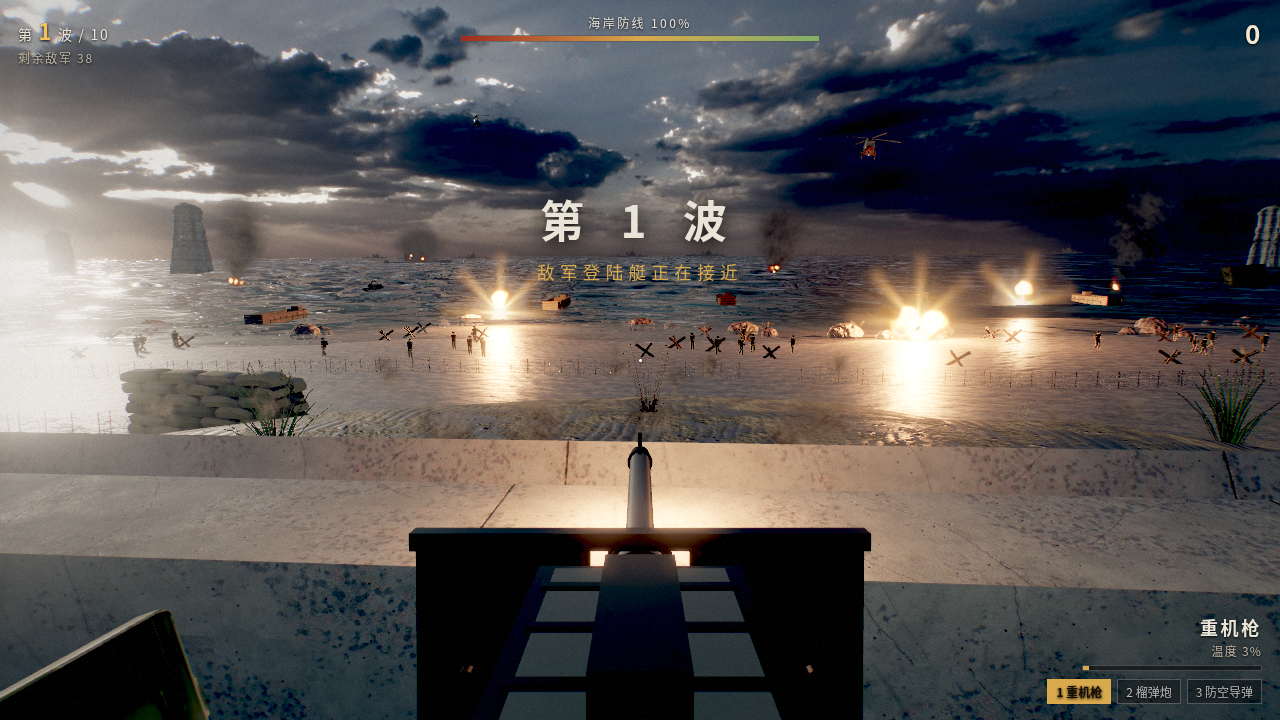
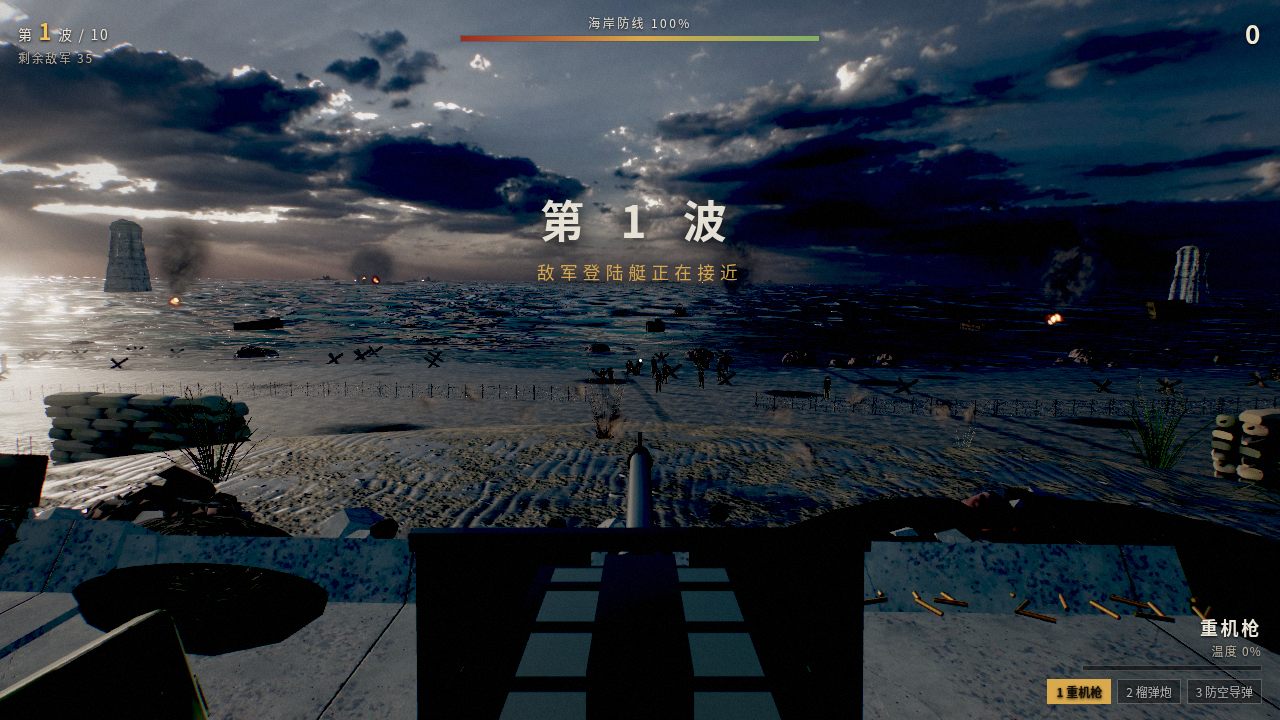
v1.0 pass: parapet, sand, ocean, stances, return fire

diff --git a/index.html b/index.html
@@ -190,6 +190,6 @@ body.touch #wlist{display:none}
   <button class="btn pri" id="bnext">下一波</button>
   <button class="btn" id="bmenu">返回主菜单</button>
 </div></div>
-<script src="game.js?v=mwdw19sl"></script>
+<script src="game.js?v=mwdw5jt6"></script>
 </body>
 </html>

diff --git a/ASSET_WISHLIST.md b/ASSET_WISHLIST.md
@@ -1,0 +1,16 @@
+# Upgrade assets: login required (Sketchfab, CC-BY / CC-BY-SA)
+
+Sketchfab requires a signed-in account (or API token) to download any model, so these were **not** fetched.
+Download as glTF/GLB into `/workspace/assets_src/ext/<key>.glb`; credit lines go into CREDITS.md.
+
+| key | what | Sketchfab UID | licence | faces |
+|---|---|---|---|---|
+| mg_m2 | Browning M2 .50 | ccf212e16b6748419cea6d7b14b30b48 (or 70a737b00d7643978a1884fa026e56c4) | CC-BY | 44k / 59k |
+| mg_mg42 | MG42 (alt) | a7c6b122b8654160a72e19a783fb6b9d | CC-BY | 58k |
+| lcvp | Higgins boat LCVP (closed / ramp open) | e2edab27282d415db2351a47d164744b / d112cbc8f65140b7a9118bb39d4db8e5 | CC-BY | 32k |
+| soldier | WW2 infantryman | 6a104431bcb8400080b79446ec019696 | CC-BY | 27k |
+| destroyer | Fletcher-class destroyer | 50cae57378cf430eab71e8f0dba21c96 | CC-BY | 20k |
+| tank | Sherman (Firefly) | c903938af7f347dc9c64cda035e9f7ab | CC-BY | 328k (needs decimation) |
+| arms | FPS arms with gloves | 453e0248925c4c3e807d3d36fe1b916a | CC-BY | 12k |
+
+Avoid: e0f2e2fa252f4cf1bba7cffc9a14b14a (NonCommercial), game-ripped packs.
